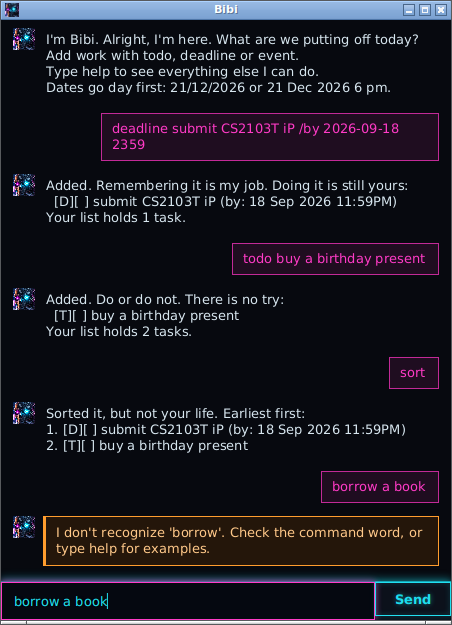
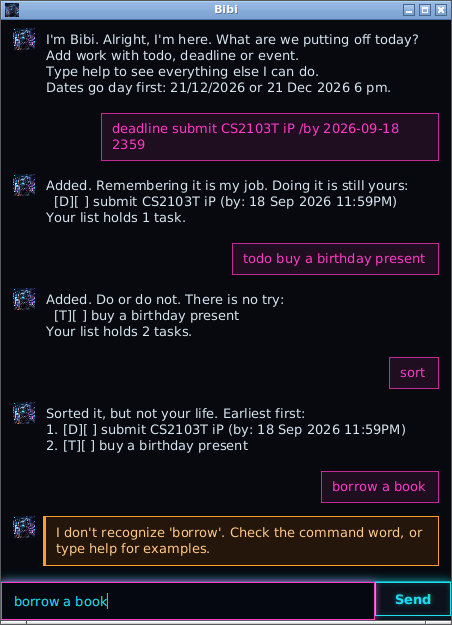
Use the supplied portrait uncropped
The previous commit cropped the portrait to the head, on the reasoning
that the transcript draws it at 22 pixels and the whole frame would not
read at that size. The author wants the picture as supplied, so the crop
goes: it was a judgement about legibility, not a requirement.

Resize to 256x256 to match the other avatar and keep the rest of the
image untouched. Update the attribution to describe what the committed
file actually is, and retake docs/Ui.png, which shows it twice.

diff --git a/README.md b/README.md
@@ -193,7 +193,7 @@ driven by hand for anything that changed it.
 
 | File | Origin |
 |---|---|
-| `src/main/resources/images/DaBibi.png` | Generated with **Google Gemini 3.8 Flash**, then cropped to the head so it stays legible at the 22-pixel size the transcript draws it at |
+| `src/main/resources/images/DaBibi.png` | Generated with **Google Gemini 3.8 Flash**, resized to 256×256 and otherwise unaltered |
 
 ### Compliance with the course reuse policy
 
